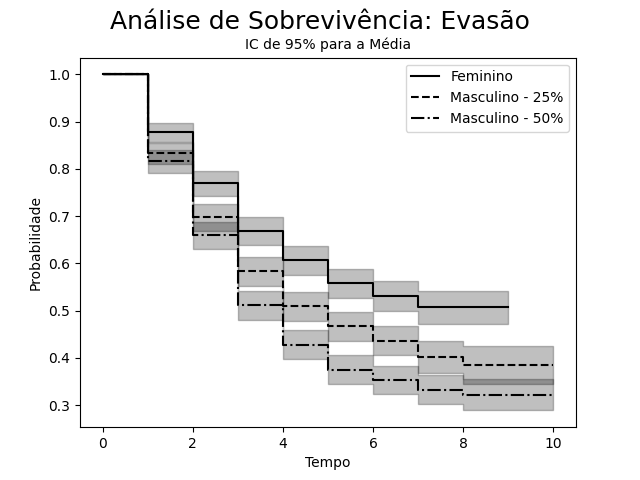
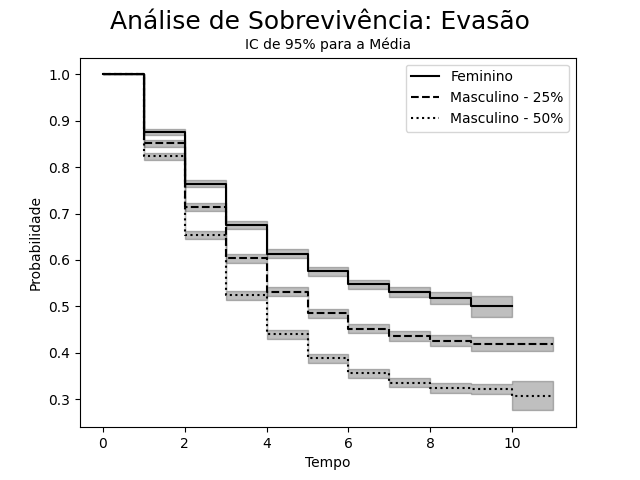
Testes

diff --git a/simulation.py b/simulation.py
@@ -7,7 +7,7 @@ from Student import Student
 def sobrevivencia(time, event_observed, label, title):
     kmf = KaplanMeierFitter()
 
-    linestyles = ['-', '--', '-.', ':']
+    linestyles = ['-', '--', ':', '-.']
     for i in range(len(time)):
         kmf.fit(time[i], event_observed[i], label=label[i])
         # kmf.plot_survival_function(color=color[i])
@@ -23,6 +23,7 @@ def sobrevivencia(time, event_observed, label, title):
     # plt.show()
 
 
+
 def prob_and_temp(state, x, tempo, quantAlunos):
     print(f"\nProbabilidade de ser {state}: {np.round(x / quantAlunos * 100, 1)} %")
     print(f"Tempo médio até ser {state}: {np.round(np.mean(tempo), 3)} anos")
@@ -34,51 +35,29 @@ def Simu(quantAlunos, matriz):
     r = 0
     t = 0
     time = []
-    event_g = []
-    event_e = []
-    # anos = 12  # ou a.nb_state dentro do for
-    times = np.array([])
+    event = []
     tempo_ate_retido = []
     tempo_ate_trancado = []
     tempo_ate_evadido = []
     tempo_ate_graduado = []
-    event_observedT = np.array([])
-    event_observedR = np.array([])
 
 
     for i in range(quantAlunos):
         a = Student(i, matriz)
         list(a.gen)
         arr = a.history
-        anos = a.nb_state
+        anos = a.size
 
-        tempo = np.arange(0, anos, 1)
-        times = np.concatenate((times, tempo))
-
-        if 'E' in arr:
-            e += 1  # quantidade para probabilidade
+        if arr[anos-1] == 'E':  # evadido
+            e += 1
             tempo_ate_evadido.append(len(arr) - 1)
             time.append(len(arr) - 1)
-            event_e.append(1)
-        else:
-            event_e.append(0)
-
-        if 'G' in arr:
-            g += 1  # quantidade para probabilidade
+            event.append(1)
+        else:  # graduado
+            g += 1
             tempo_ate_graduado.append(len(arr) - 1)
             time.append(len(arr) - 1)
-            event_g.append(1)
-        else:
-            event_g.append(0)
-
-        # Trancado
-        estados = np.zeros((anos,), dtype=int)
-        i = 1
-        while i < len(arr):
-            if arr[i] == arr[i-1]:  # se estado igual ao estado anterior
-                estados[i] = 1
-            i += 1
-        event_observedT = np.concatenate((event_observedT, estados))
+            event.append(0)
 
         # Se ficou Trancado em algum dos estados
         i = 1
@@ -88,15 +67,6 @@ def Simu(quantAlunos, matriz):
                 tempo_ate_trancado.append(i)
                 break
             i += 1
-
-        # Retido
-        estados = np.zeros((anos,), dtype=int)
-        count = 0
-        for estado in arr:
-            if 'R' in estado:
-                estados[count] = 1
-            count += 1
-        event_observedR = np.concatenate((event_observedR, estados))
 
         # Se ficou Retido em algum dos estados
         count = 0
@@ -112,54 +82,48 @@ def Simu(quantAlunos, matriz):
     prob_and_temp("Evadido", e, tempo_ate_evadido, quantAlunos)
     prob_and_temp("Graduado", g, tempo_ate_graduado, quantAlunos)
 
-    return time, times, event_e, event_g, event_observedR, event_observedT
+    return time, event
 
 
 
-quantAlunos = 1000
+quantAlunos = 10000
 
 
-# # Simulação por Gênero
-# print("\nFeminino")
-# timeF, timesF, event_observedEF, event_observedGF, event_observedRF, event_observedTF = Simu(quantAlunos, 'matrix/matrixF.csv')
-# print("\nMasculino - 25%")
-# timeM, timesM, event_observedEM, event_observedGM, event_observedRM, event_observedTM = Simu(quantAlunos, 'matrix/matrixM.csv')
-# print("\nMasculino - 50%")
-# timeM50, timesM50, event_observedEM50, event_observedGM50, event_observedRM50, event_observedTM50 = Simu(quantAlunos, 'matrix/matrixM50.csv')
-#
-# times = [timeF, timeM, timeM50]
-# eventsE = [event_observedEF, event_observedEM, event_observedEM50]
-# eventsG = [event_observedGF, event_observedGM, event_observedGM50]
-# labels = ["Feminino", "Masculino - 25%", "Masculino - 50%"]
-#
-# sobrevivencia(times, eventsE, labels, "Evasão")
-# sobrevivencia(times, eventsG, labels, "Graduação")
+# Simulação por Gênero
+print("\nFeminino")
+timeF, event_observedEF = Simu(quantAlunos, 'matrix/matrixF.csv')
+print("\nMasculino - 25%")
+timeM,  event_observedEM = Simu(quantAlunos, 'matrix/matrixM.csv')
+print("\nMasculino - 50%")
+timeM50, event_observedEM50 = Simu(quantAlunos, 'matrix/matrixM50.csv')
+
+times = [timeF, timeM, timeM50]
+events = [event_observedEF, event_observedEM, event_observedEM50]
+labels = ["Feminino", "Masculino - 25%", "Masculino - 50%"]
+
+sobrevivencia(times, events, labels, "Evasão")
 
 
 
 # Simulação Evasão A1
-# time20, times, event_observed_e20, event_observed_g20, event_observedR, event_observedT = Simu(quantAlunos, 'matrix/matrixMenos20EvasaoA1.csv')
-# time40, times, event_observed_e40, event_observed_g40, event_observedR, event_observedT = Simu(quantAlunos, 'matrix/matrixMenos40EvasaoA1.csv')
-# time60, times, event_observed_e60, event_observed_g60, event_observedR, event_observedT = Simu(quantAlunos, 'matrix/matrixMenos60EvasaoA1.csv')
+# time20, event_observed_e20 = Simu(quantAlunos, 'matrix/matrixMenos20EvasaoA1.csv')
+# time40, event_observed_e40 = Simu(quantAlunos, 'matrix/matrixMenos40EvasaoA1.csv')
+# time60, event_observed_e60 = Simu(quantAlunos, 'matrix/matrixMenos60EvasaoA1.csv')
 #
 #
 # times = [time20, time40, time60]
 # eventsE = [event_observed_e20, event_observed_e40, event_observed_e60]
-# eventsG = [event_observed_g20, event_observed_g40, event_observed_g60]
 # labels = ["Menos 20%", "Menos 40%", "Menos 60%"]
 #
 # sobrevivencia(times, eventsE, labels, "Evasão")
-# sobrevivencia(times, eventsG, labels, "Graduação")
 
 
 
 # Simulação Geral
-# time, times, event_observedE, event_observedG, event_observedR, event_observedT = Simu(quantAlunos, 'matrix/matrixPadrao.csv')
+# time, event = Simu(quantAlunos, 'matrix/matrixPadrao.csv')
 #
-# sobrevivencia([time], [event_observedE], ['Evadido'], "Evasão")
-# sobrevivencia([time], [event_observedG], ['Graduado'], "Graduação")
-# sobrevivencia([times], [event_observedR], ['Retido'], "Retenção")
-# sobrevivencia([times], [event_observedT], ['Trancado'], "Trancado")
+# sobrevivencia([time], [event], ['Evadido'], "Evasão")
+
 
 
 

diff --git a/tests/testKMF.py b/tests/testKMF.py
@@ -1,5 +1,6 @@
 from lifelines.datasets import load_waltons
-from lifelines import KaplanMeierFitter
+from lifelines import KaplanMeierFitter, CoxPHFitter, NelsonAalenFitter
+from lifelines.statistics import logrank_test
 from matplotlib import pyplot as plt
 
 
@@ -7,28 +8,104 @@ times = [5, 6, 7, 2, 4, 4, 3, 6, 4, 7]
 event_g = [1, 1, 1, 0, 0, 0, 0, 1, 0, 1]
 event_e = [0, 0, 0, 1, 1, 1, 1, 0, 1, 0]
 
-# durations = [5, 6, 7, 2, 4, 4, 3, 6, 4, 7, 4, 4]
+# times = [5, 6, 7, 2, 4, 4, 3, 6, 4, 7, 4, 4]
 # event_g = [1, 1, 1, 0, 0, 0, 0, 1, 0, 1, 1, 1]
 # event_e = [0, 0, 0, 1, 1, 1, 1, 0, 1, 0, 0, 0]
 #
-# durations = [5, 6, 7, 2, 4, 4, 3, 6, 4, 7, 8, 10]
+# times = [5, 6, 7, 2, 4, 4, 3, 6, 4, 7, 8, 10]
 # event_g = [1, 1, 1, 0, 0, 0, 0, 1, 0, 1, 1, 1]
 # event_e = [0, 0, 0, 1, 1, 1, 1, 0, 1, 0, 0, 0]
 #
-# durations = [5, 6, 7, 2, 4, 4, 3, 6, 4, 7, 8, 10]
+# times = [5, 6, 7, 2, 4, 4, 3, 6, 4, 7, 8, 10]
 # event_g = [1, 1, 1, 0, 0, 0, 0, 1, 0, 1, 0, 0]
 # event_e = [0, 0, 0, 1, 1, 1, 1, 0, 1, 0, 1, 1]
 
 
+# kmf = KaplanMeierFitter()
+# kmf.fit(times, event_g)
+# kmf.plot_survival_function(ci_show=False)
+# plt.show()
+# kmf.fit(times, event_e)
+# kmf.plot_survival_function(ci_show=False)
+# plt.show()
+# kmf.plot_cumulative_density(ci_show=False)
+# plt.show()
+
+
+
+
+times = [5, 6, 7, 2, 4, 4, 3, 6, 4, 7]
+event_e = [0, 0, 0, 1, 1, 1, 1, 0, 1, 0]
+times1 = [1, 6, 5, 6, 1, 4, 3, 5, 2, 7]
+event_e1 = [1, 0, 1, 0, 1, 1, 1, 0, 1, 0]
+
 kmf = KaplanMeierFitter()
-kmf.fit(times, event_g)
-kmf.plot_survival_function(ci_show=False)
-plt.show()
 kmf.fit(times, event_e)
 kmf.plot_survival_function(ci_show=False)
+# kmf.fit(times1, event_e1)
+# kmf.plot_survival_function(ci_show=False)
+
 plt.show()
-kmf.plot_cumulative_density(ci_show=False)
+
+print(kmf.event_table)
+print("Quantidade de estudantes por ano")
+print(kmf.event_table.at_risk)
+print("Tempo médio de sobrevivencia")
+print(kmf.median_survival_time_)
+print(kmf.survival_function_)
+print("Probabilidade de evadir pelo tempo")
+print(kmf.cumulative_density_)
+print(kmf.predict([0, 4, 7]))
+print(kmf.confidence_interval_)
+print(kmf.conditional_time_to_event_)
+
+
+
+
+# print("cox")
+# # Using Cox Proportional Hazards model
+# cph = CoxPHFitter()   ## Instantiate the class to create a cph object
+# cph.fit(times, event_e)
+# cph.fit(times, event_e1)
+# cph.print_summary()    ## HAve a look at the significance of the features
+
+
+
+
+
+# HAZARD
+naf = NelsonAalenFitter()
+
+naf.fit(times, event_e)
+
+print(naf.cumulative_hazard_)
+naf.plot_cumulative_hazard()
 plt.show()
+
+
+
+
+
+
+
+
+
+# LOGRANK
+print("logrank")
+results = logrank_test(times, times1, event_e, event_e1)
+results.print_summary()
+print(results.p_value)
+
+
+
+
+
+
+
+
+
+
+
 
 
 
@@ -48,12 +125,4 @@ plt.show()
 # kmf.plot_cumulative_density()
 # plt.show()
 
-# Colocar no print
-# kmf.event_table
-# kmf.predict([0,10])
-# kmf.survival_function_
-# kmf.cumulative_density_
-# kmf.median_survival_time_
-# kmf.confidence_interval_
-# kmf.conditional_time_to_event_
 

diff --git a/Student.py b/Student.py
@@ -9,7 +9,7 @@ class Student:
         self.df_Q = pd.read_csv(matrix, index_col=0)
         self.states = self.df_Q.columns
         self.state = self.states[0]
-        self.nb_state = 1
+        self.size = 1
         self.gen = self.markov()
         self.history = [self.states[0]]
 
@@ -26,17 +26,17 @@ class Student:
             if next_state == 'G':
                 self.state = 'G'
                 self.history.append(self.state)
-                self.nb_state += 1
+                self.size += 1
                 yield self.state
 
             elif next_state == 'E':
                 self.state = 'E'
                 self.history.append(self.state)
-                self.nb_state += 1
+                self.size += 1
                 yield self.state
 
             else:
                 self.state = next_state
                 self.history.append(self.state)
-                self.nb_state += 1
+                self.size += 1
                 yield self.state
